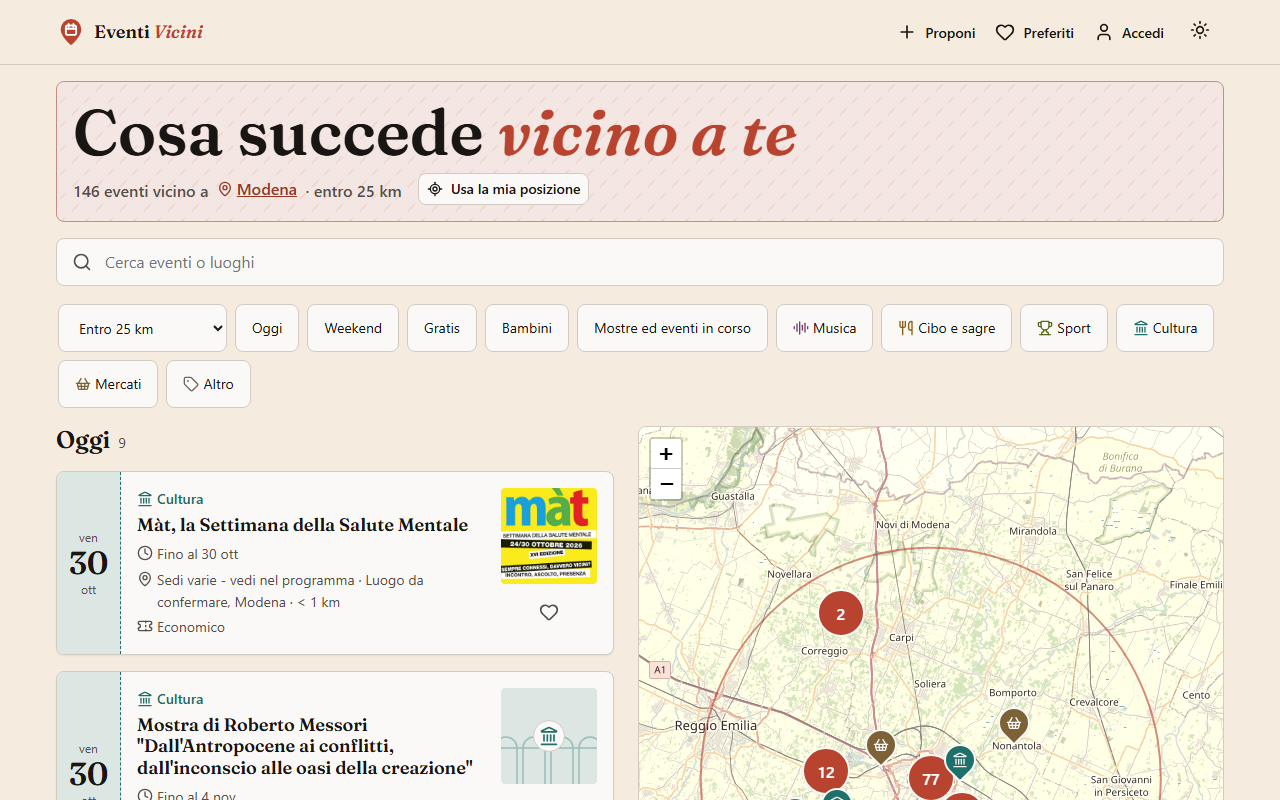
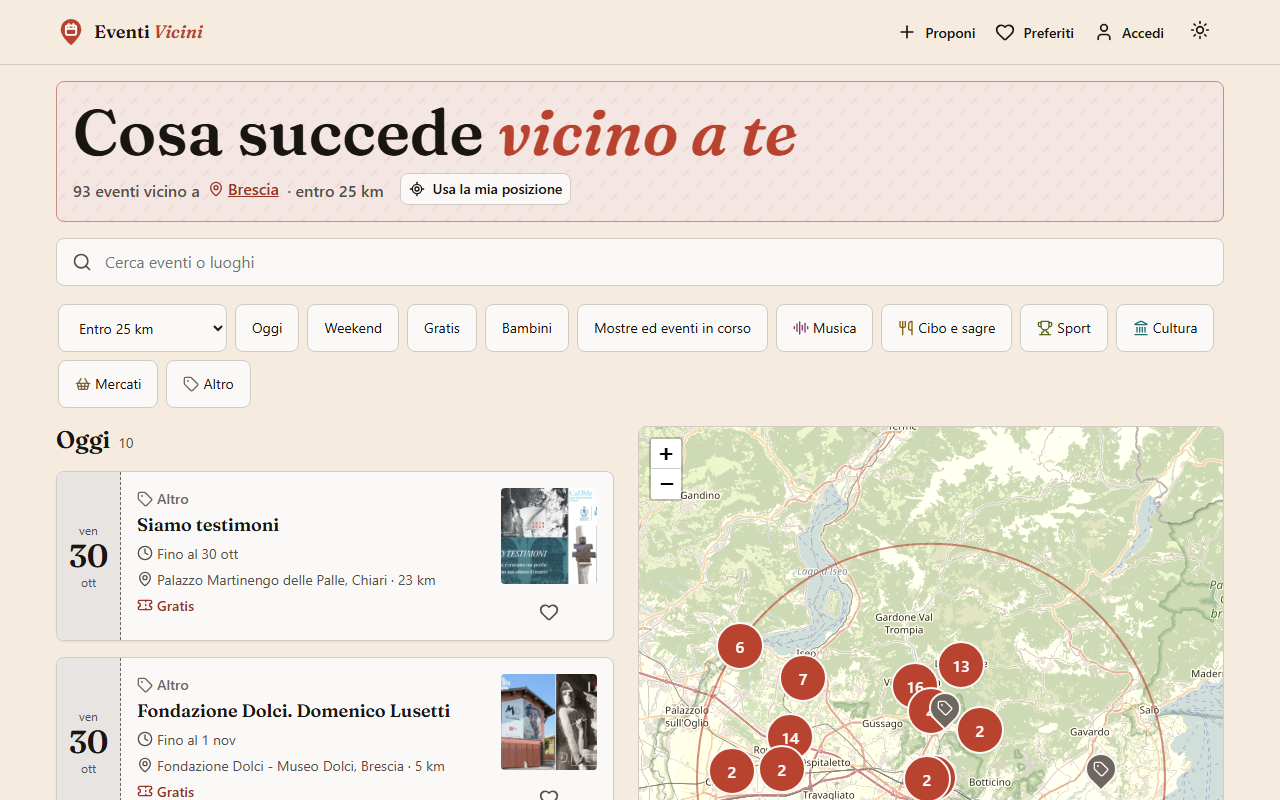
README: screenshot con dati di Brescia, credito immagine CC-BY 4.0 dal Comune di Brescia

diff --git a/README.md b/README.md
@@ -24,14 +24,14 @@ Eventi Vicini è un'agenda **gratuita** degli eventi pubblici italiani: sagre, m
 <a id="screenshot"></a>
 ## Screenshot
 
-Dati reali dal sito, Modena, 30 ottobre 2026.
+Dati reali dal sito, Brescia, 30 ottobre 2026.
 
 | Tema chiaro | Tema scuro |
 |---|---|
-| <img src="docs/screenshots/home-desktop-chiaro.png" alt="Home desktop, tema chiaro: lista degli eventi di oggi a Modena e mappa"> | <img src="docs/screenshots/home-desktop-scuro.png" alt="Home desktop, tema scuro"> |
+| <img src="docs/screenshots/home-desktop-chiaro.png" alt="Home desktop, tema chiaro: lista degli eventi di oggi a Brescia e mappa"> | <img src="docs/screenshots/home-desktop-scuro.png" alt="Home desktop, tema scuro"> |
 | <img src="docs/screenshots/mappa-mobile-chiaro.png" width="49%" alt="Mappa su mobile con cluster di eventi entro 25 km"> <img src="docs/screenshots/evento-mobile-chiaro.png" width="49%" alt="Dettaglio evento su mobile"> | <img src="docs/screenshots/mappa-mobile-scuro.png" width="49%" alt="Mappa su mobile, tema scuro"> <img src="docs/screenshots/evento-mobile-scuro.png" width="49%" alt="Dettaglio evento su mobile, tema scuro"> |
 
-<sub>Immagine del dettaglio evento: Comune di Modena, [CC-BY 4.0](https://creativecommons.org/licenses/by/4.0/deed.it) · [fonte](https://www.comune.modena.it/vivere-modena/eventi/2026/mat-la-settimana-della-salute-mentale).</sub>
+<sub>Immagine del dettaglio evento: Comune di Brescia, [CC-BY 4.0](https://creativecommons.org/licenses/by/4.0/deed.it), licenza dichiarata nelle [note legali](https://www.comune.brescia.it/it/legal_notices) del sito · [fonte](https://www.comune.brescia.it/it/eventi/la-vittoria-di-brescia-2517862-2517870-2518098-2518288-2518464-2518595-2518756-2518996-2519319-2519486-2519746-2520013).</sub>
 
 <a id="funzioni"></a>
 ## Funzioni

diff --git a/docs/release-v1.0.0.md b/docs/release-v1.0.0.md
@@ -6,6 +6,8 @@ Prima versione pubblica: un'agenda gratuita degli eventi pubblici di **tutta Ita
 
 ![Home desktop](https://raw.githubusercontent.com/AndreaAzzarello/EventiVicini/v1.0.0/docs/screenshots/home-desktop-chiaro.png)
 
+<sub>Screenshot con dati reali di Brescia (30 ottobre 2026); immagine dell'evento: Comune di Brescia, CC-BY 4.0 dichiarata nelle [note legali](https://www.comune.brescia.it/it/legal_notices) del sito.</sub>
+
 ## Novità
 
 - **Bundle delle liste**: l'importer scrive liste precalcolate per cella geohash e per città (`bundles/*`); la webapp legge una sola volta per cella invece di una query per visita.
